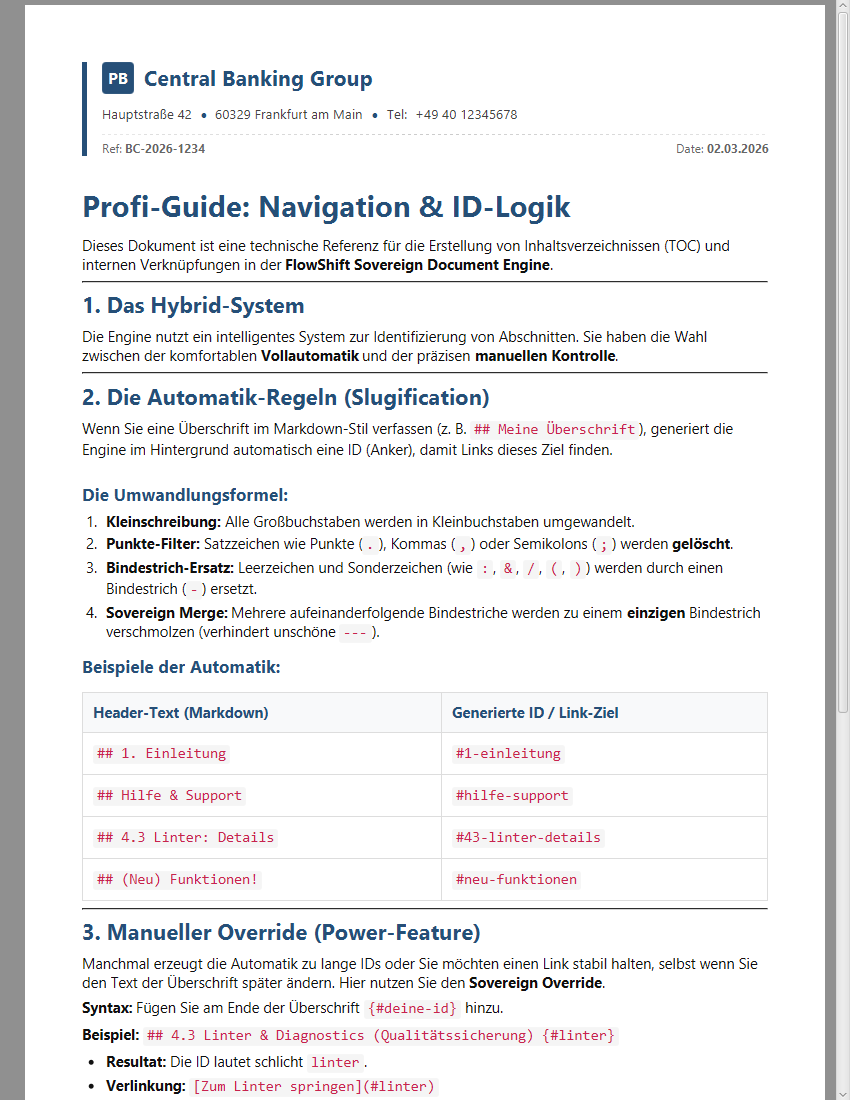
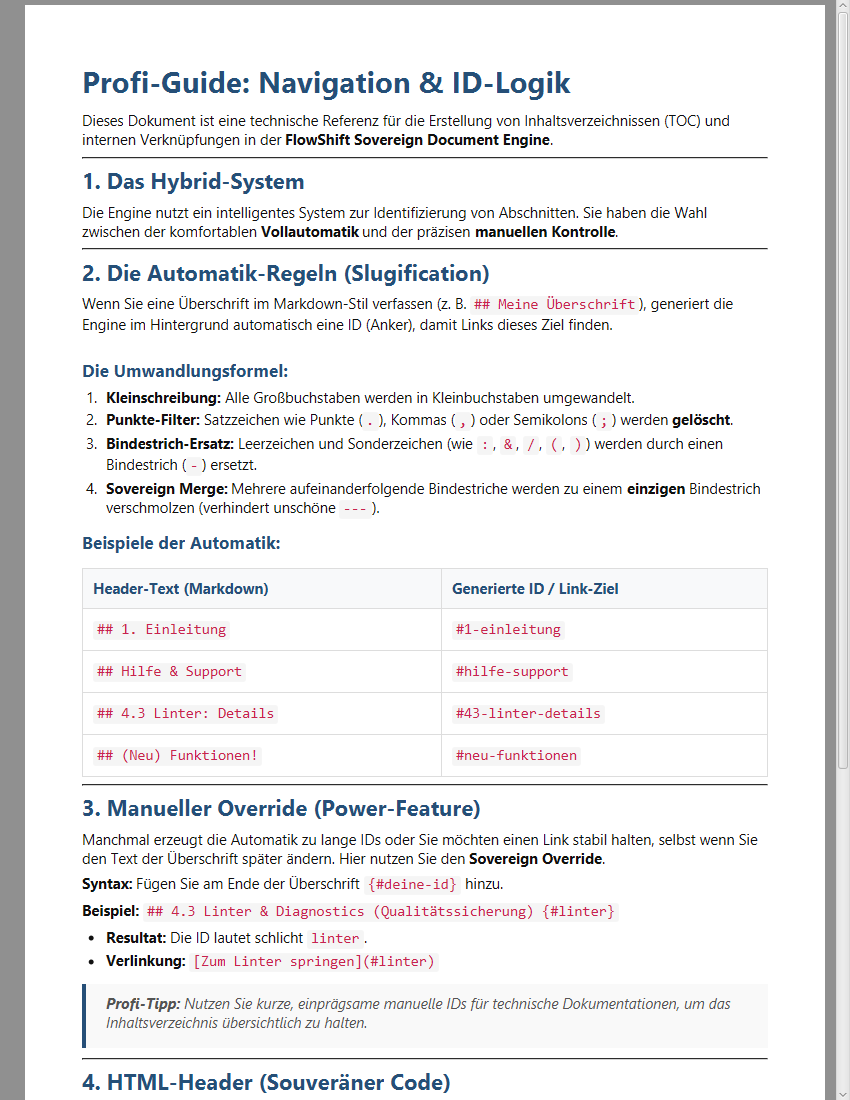
debugged removed json project setting as initial document setting in generateCleanHTML

Changed region(s): [[0.0918, 0.0309, 0.9176, 1.0], [0.8259, 0.5564, 0.8871, 0.5873], [0.9788, 0.6491, 1.0, 0.68]]

diff --git a/markdown-editor/src/main/java/com/flowshift/editor/MarkdownEditorController.java b/markdown-editor/src/main/java/com/flowshift/editor/MarkdownEditorController.java
@@ -715,12 +715,12 @@ public class MarkdownEditorController implements Initializable, LibraryActions {
 		this.lineNumberFactory = new LinterLineNumberFactory(editor, idx -> LinterLineNumberFactory.findErrorAtLine(editor, markdownHighlighter.getLastErrors(), idx));
 		// VERBINDUNG HERSTELLEN
 		this.lineNumberFactory.setHoverHandler((node, line) -> {
-		    // Wir brauchen Zugriff auf den Manager. Am besten speichern wir ihn als Feld im Controller.
-		    if (this.errorTooltipManager != null) {
-		        this.errorTooltipManager.showGutterTooltip(node, line);
-		    }
+			// Wir brauchen Zugriff auf den Manager. Am besten speichern wir ihn als Feld im Controller.
+			if (this.errorTooltipManager != null) {
+				this.errorTooltipManager.showGutterTooltip(node, line);
+			}
 		});
-		
+
 		editor.setParagraphGraphicFactory(lineNumberFactory);
 
 		// Gutter-Synchronisation bei Cursor-Bewegung
@@ -3000,38 +3000,41 @@ public class MarkdownEditorController implements Initializable, LibraryActions {
 		return name.replaceAll("[^a-zA-Z0-9.-]", "_") + ".html";
 	}
 
+
 	private String generateCleanHtml(String mdContent) {
-		if (mdContent == null || mdContent.isEmpty())
-			return "";
+	    if (mdContent == null || mdContent.isEmpty())
+	        return "";
 
-		// 1. DATA CASCADE
-		Map<String, String> docMetadata = readYamlMetadata(mdContent);
-		DocumentSettings tempSettings = new DocumentSettings(projectSettings);
-		applyYamlOverrides(tempSettings, docMetadata);
+	    // 1. YAML AUS DEM DOKUMENT LESEN (nicht projectSettings)
+	    Map<String, String> docMetadata = readYamlMetadata(mdContent);
+	    DocumentSettings docSettings = new DocumentSettings();  // <- NEU: Leeres Settings-Objekt
+	    applyYamlOverrides(docSettings, docMetadata);           // <- NUR YAML-Werte
 
-		// 2. RENDERING
-		String[] ext = extractAndRemoveCss(mdContent);
-		String htmlBody = htmlRenderer.render(markdownParser.parse(preprocessTemplate(ext[0])));
-		// SOUVERÄNE TRANSFORMATION
-		htmlBody = wrapTopLevelOrphanText(htmlBody);
-		htmlBody = applyPlaceholders(escapeUnicodeForHtml(htmlBody), collectPlaceholders(tempSettings, docMetadata));
+//	    // 2. Header laden basierend auf YAML
+//	    ensureHeaderManager();
+//	    if (headerManager != null && !"NONE".equals(docSettings.getActiveHeaderStyle())) {
+//	        String headerHtml = headerManager.loadTemplate(docSettings.getActiveHeaderStyle());
+//	        docSettings.setHeaderHtml(headerHtml);
+//	    }
 
-		// 3. SLICER INJECTION
-		String slicerJs = "";
-		// HEILUNG: Wir nutzen tempSettings, da dort die YAML-Overrides bereits drin sind
-		if (tempSettings.isPaginated()) {
-			double pageHeight = tempSettings.getFormat().heightInMm();
-			double marginTop = tempSettings.getMarginTop();
-			double marginBottom = tempSettings.getMarginBottom();
+	    // 3. REST (wie gehabt, aber mit docSettings statt tempSettings)
+	    String[] ext = extractAndRemoveCss(mdContent);
+	    String htmlBody = htmlRenderer.render(markdownParser.parse(preprocessTemplate(ext[0])));
+	    htmlBody = wrapTopLevelOrphanText(htmlBody);
+	    htmlBody = applyPlaceholders(escapeUnicodeForHtml(htmlBody), collectPlaceholders(docSettings, docMetadata));
 
-			// HEILUNG: Aufruf mit allen 3 benötigten Parametern
-			slicerJs = "<script>" + themeManager.getSlicerScript(pageHeight, marginTop, marginBottom) + "</script>";
-		}
+	    String slicerJs = "";
+	    if (docSettings.isPaginated()) {
+	        double pageHeight = docSettings.getFormat().heightInMm();
+	        double marginTop = docSettings.getMarginTop();
+	        double marginBottom = docSettings.getMarginBottom();
+	        slicerJs = "<script>" + themeManager.getSlicerScript(pageHeight, marginTop, marginBottom) + "</script>";
+	    }
 
-		// 4. FINAL ASSEMBLY
-		// Wir übergeben slicerJs als dritten Parameter (scriptBlock)
-		return buildCompleteHtml(ext[1], htmlBody, slicerJs, tempSettings, docMetadata, true);
+	    return buildCompleteHtml(ext[1], htmlBody, slicerJs, docSettings, docMetadata, true);
 	}
+	
+	
 
 	/**
 	 * Analysiert den HTML-Stream und verpackt nur Text in
@@ -4358,6 +4361,7 @@ public class MarkdownEditorController implements Initializable, LibraryActions {
 
 		// 2. ERSTER AUFRUF: Fenster bauen und im Feld speichern (cachen)
 		libraryWindow = new TemplateLibraryWindow(getPrimaryStage(), templateManager, projectSettings, this::generateCleanHtml, this);
+
 
 		// Wichtig: Wir müssen sicherstellen, dass die Referenz gelöscht wird,
 		// wenn der User das Fenster manuell schließt (z.B. mit dem X-Button).
